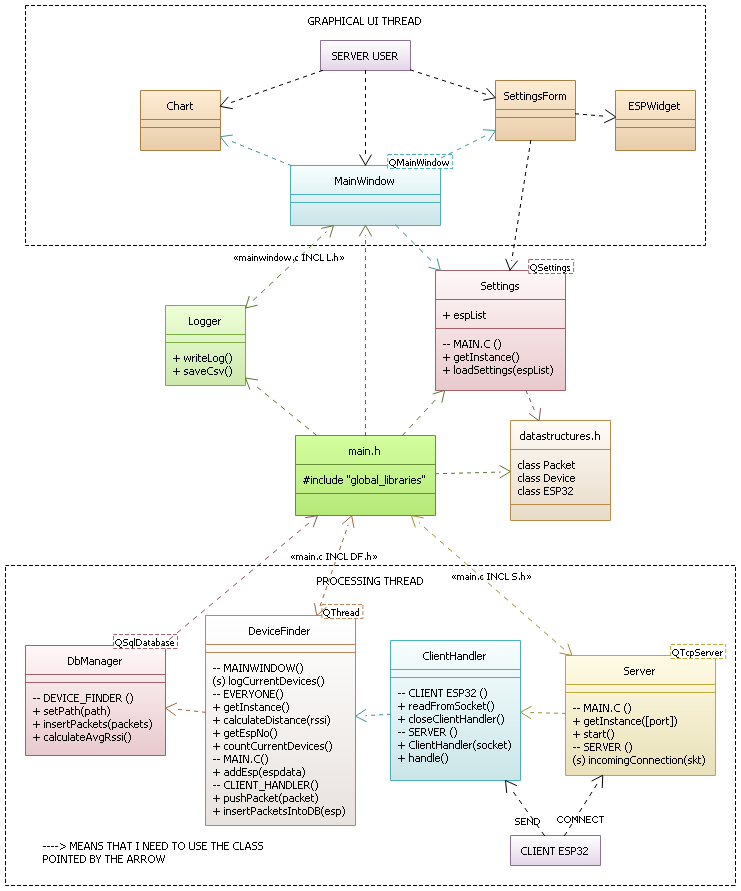
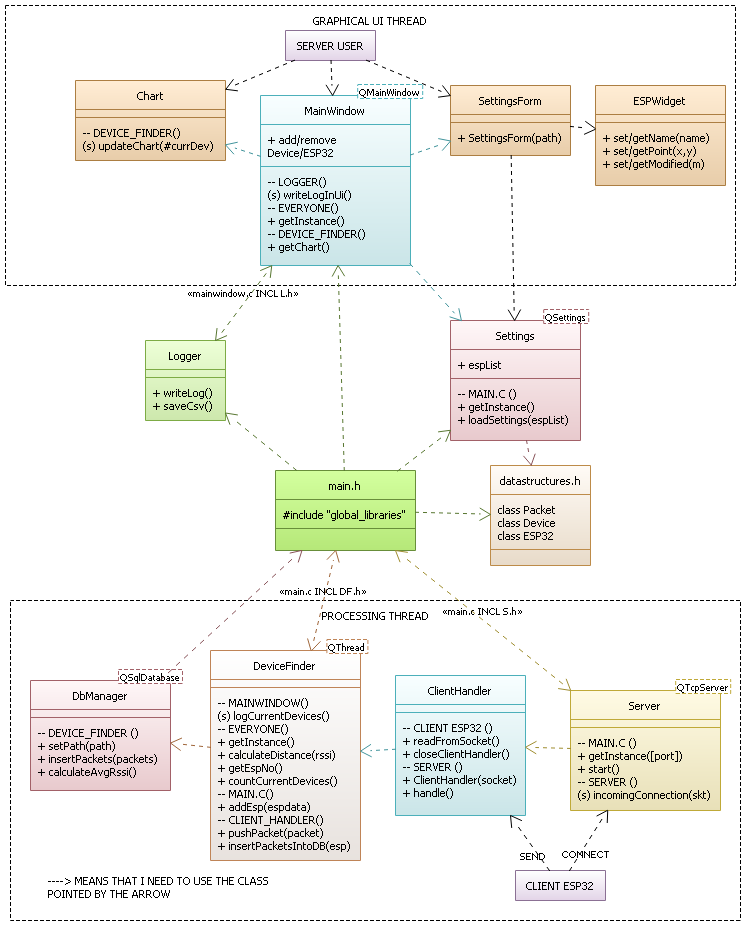
Refactoring and UML completed

diff --git a/espwidget.cpp b/espwidget.cpp
@@ -11,15 +11,15 @@
 /**
  * @brief Constructor of ESPWidget
  */
-ESPWidget::ESPWidget(QWidget *parent) :
+EspWidget::EspWidget(QWidget *parent) :
     QWidget(parent),
-    ui(new Ui::ESPWidget)
+    ui(new Ui::EspWidget)
 {
     ui->setupUi(this);
     setModified(false);
 }
 
-ESPWidget::~ESPWidget()
+EspWidget::~EspWidget()
 {
     delete ui;
 }
@@ -27,7 +27,7 @@ ESPWidget::~ESPWidget()
 /**
  * @brief Sets graphically the name of the ESP32 Device
  */
-void ESPWidget::setName(QString name)
+void EspWidget::setName(QString name)
 {
     ui->lblESPName->setText(name);
 }
@@ -35,7 +35,7 @@ void ESPWidget::setName(QString name)
 /**
  * @brief Sets graphically the position of the ESP32 Device
  */
-void ESPWidget::setPoint(double x, double y)
+void EspWidget::setPoint(double x, double y)
 {
     ui->txtX->setText(QString::number(x));
     ui->txtY->setText(QString::number(y));
@@ -45,7 +45,7 @@ void ESPWidget::setPoint(double x, double y)
  * @brief Sets if the data written has been modified
  * Sets italic font it text is modified
  */
-void ESPWidget::setModified(bool m){
+void EspWidget::setModified(bool m){
     modified = m;
     if(modified){
         ui->txtX->setStyleSheet("font: italic Arial;");
@@ -59,7 +59,7 @@ void ESPWidget::setModified(bool m){
 /**
  * @brief Get the name of the ESP32 Device
  */
-QString ESPWidget::getName()
+QString EspWidget::getName()
 {
     return ui->lblESPName->text();
 }
@@ -67,7 +67,7 @@ QString ESPWidget::getName()
 /**
  * @brief Get the x position of the ESP32 Device
  */
-float ESPWidget::getX()
+float EspWidget::getX()
 {
     return ui->txtX->text().toFloat();
 }
@@ -75,7 +75,7 @@ float ESPWidget::getX()
 /**
  * @brief Get the y position of the ESP32 Device
  */
-float ESPWidget::getY()
+float EspWidget::getY()
 {
     return ui->txtY->text().toFloat();
 }
@@ -83,7 +83,7 @@ float ESPWidget::getY()
 /**
  * @brief When x is modified, call this function
  */
-void ESPWidget::on_txtX_textEdited(const QString &dummy)
+void EspWidget::on_txtX_textEdited(const QString &dummy)
 {
      setModified(true);
 }
@@ -91,7 +91,7 @@ void ESPWidget::on_txtX_textEdited(const QString &dummy)
 /**
  * @brief When y is modified, call this function
  */
-void ESPWidget::on_txtY_textEdited(const QString &dummy)
+void EspWidget::on_txtY_textEdited(const QString &dummy)
 {
     setModified(true);
 }

diff --git a/mainwindow.cpp b/mainwindow.cpp
@@ -71,7 +71,7 @@ MainWindow::~MainWindow()
  * @param text to write
  * @param color of the text
  */
-void MainWindow::writeLog(const QString &text, const QColor& color)
+void MainWindow::writeLogInUi(const QString &text, const QColor& color)
 {
     ui->txtLog->setTextColor( color );
     ui->txtLog->append(text);
@@ -243,7 +243,7 @@ void MainWindow::on_actionDebug_triggered()
             double x,y;
             x = bx_x->value();
             y = bx_y->value();
-            writeLog("Added device at (" +
+            writeLogInUi("Added device at (" +
                      QString::number(x) + ", " +
                      QString::number(y) + ")");
             addPoint(x,y);
@@ -254,7 +254,7 @@ void MainWindow::on_actionDebug_triggered()
             double x,y;
             x = bx_x->value();
             y = bx_y->value();
-            writeLog("Removed device at (" +
+            writeLogInUi("Removed device at (" +
                  QString::number(x) + ", " +
                  QString::number(y) + ")");
             removePoint(x,y);
@@ -265,7 +265,7 @@ void MainWindow::on_actionDebug_triggered()
             double x,y;
             x = bx_x->value();
             y = bx_y->value();
-            writeLog("Added ESP Board at (" +
+            writeLogInUi("Added ESP Board at (" +
                  QString::number(x) + ", " +
                  QString::number(y) + ")");
             addBoard(x,y);
@@ -275,14 +275,14 @@ void MainWindow::on_actionDebug_triggered()
             double x,y;
             x = bx_x->value();
             y = bx_y->value();
-            writeLog("Removed ESP Board at (" +
+            writeLogInUi("Removed ESP Board at (" +
                  QString::number(x) + ", " +
                  QString::number(y) + ")");
             removeBoard(x,y);
         });
     connect(clear, &QPushButton::clicked,
         [=](){
-            writeLog("Plot cleared.");
+            writeLogInUi("Plot cleared.");
             clearData();
         });
 

diff --git a/settingsform.cpp b/settingsform.cpp
@@ -69,8 +69,8 @@ void SettingsForm::saveValues()
 
     for(int i=0; i < ESP32No; ++i){
         QString name = QString("ESP%1").arg(i);
-        double x = static_cast<double>(static_cast<ESPWidget*>(ui->listWidget->itemWidget(ui->listWidget->item(i)))->getX());
-        double y = static_cast<double>(static_cast<ESPWidget*>(ui->listWidget->itemWidget(ui->listWidget->item(i)))->getY());
+        double x = static_cast<double>(static_cast<EspWidget*>(ui->listWidget->itemWidget(ui->listWidget->item(i)))->getX());
+        double y = static_cast<double>(static_cast<EspWidget*>(ui->listWidget->itemWidget(ui->listWidget->item(i)))->getY());
 
         qs.setValue(QString(name + "/name"), name);
         qs.setValue(QString(name + "/pos_x"), QString::number(x,'f'));
@@ -90,7 +90,7 @@ void SettingsForm::saveValues()
 void SettingsForm::addESPWidget(QString name, double x, double y, bool modified)
 {
     //Creating an object of the designed widget which is to be added to the listwidget
-    ESPWidget *espWidget = new ESPWidget(this);
+    EspWidget *espWidget = new EspWidget(this);
     espWidget->setName(name);
     espWidget->setPoint(x,y);
     espWidget->setModified(modified);

diff --git a/mainwindow.h b/mainwindow.h
@@ -37,6 +37,11 @@ private:
     explicit MainWindow(QWidget *parent = nullptr);
     void initChart();
 
+    void plot();
+
+signals:
+    void logCurrDev();
+
 private slots:
     void on_actionExit_triggered();
     void on_actionAbout_triggered();
@@ -44,23 +49,21 @@ private slots:
     void on_logCurrentDevices_clicked();
     void on_actionDebug_triggered();
 
-signals:
-    void logCurrDev();
+public slots:
+    // LOGGER
+    void writeLogInUi(const QString &text, const QColor& = Qt::white);
 
 public:
-    static MainWindow* getInstance();
     ~MainWindow();
-    void writeLog(const QString &text, const QColor& = Qt::white);
+    static MainWindow* getInstance();
     Chart* getChart();
 
     // Plot management
-    void addPoint(double x, double y);
-    void removePoint(double x, double y);
-    void addBoard(double x, double y);
-    void removeBoard(double x, double y);
-    void clearData();
-    void plot();
-
+    void addDevice(double x, double y);
+    void removeDevice(double x, double y);
+    void addESP32(double x, double y);
+    void removeESP32(double x, double y);
+    void clearPlot();
 };
 
 #endif // MAINWINDOW_H

diff --git a/espwidget.h b/espwidget.h
@@ -14,21 +14,28 @@
 #include <QString>
 
 namespace Ui {
-class ESPWidget;
+class EspWidget;
 }
 
 /**
  * This is the Graphical Row containing the informations
  * about a ESP32 device
  */
-class ESPWidget : public QWidget
+class EspWidget : public QWidget
 {
     Q_OBJECT
+
 private:
+    Ui::EspWidget *ui;
     bool modified = false;
+
+private slots:
+    void on_txtX_textEdited(const QString &arg1);
+    void on_txtY_textEdited(const QString &arg1);
+
 public:
-    explicit ESPWidget(QWidget *parent = nullptr);
-    ~ESPWidget();
+    explicit EspWidget(QWidget *parent = nullptr);
+    ~EspWidget();
 
     void setName(QString name);
     void setPoint(double x, double y);
@@ -37,13 +44,6 @@ public:
     QString getName();
     float getX();
     float getY();
-
-private slots:
-    void on_txtX_textEdited(const QString &arg1);
-    void on_txtY_textEdited(const QString &arg1);
-
-private:
-    Ui::ESPWidget *ui;
 };
 
 #endif // ESPWIDGET_H

diff --git a/settingsform.h b/settingsform.h
@@ -27,21 +27,21 @@ class SettingsForm : public QDialog
 {
     Q_OBJECT
 
-public:
-    explicit SettingsForm(QString path, QWidget *parent = nullptr);
-    ~SettingsForm();
-
-private slots:
-    void on_buttonBox_clicked(QAbstractButton *button);
-    void on_btnDecreaseESP_clicked();
-    void on_btnIncreaseESP_clicked();
-
 private:
     void addESPWidget(QString name, double x, double y, bool modified = true);
     void loadValues();
     void saveValues();
     Ui::SettingsForm *ui;
     QString settingsPath;
+
+private slots:
+    void on_buttonBox_clicked(QAbstractButton *button);
+    void on_btnDecreaseESP_clicked();
+    void on_btnIncreaseESP_clicked();
+
+public:
+    explicit SettingsForm(QString path, QWidget *parent = nullptr);
+    ~SettingsForm();
 };
 
 #endif // SETTINGSFORM_H

diff --git a/chart.h b/chart.h
@@ -20,12 +20,6 @@ using namespace QtCharts;
 class Chart: public QChart
 {
     Q_OBJECT
-public:
-    Chart(QGraphicsItem *parent = nullptr, Qt::WindowFlags wFlags = nullptr);
-    virtual ~Chart();
-
-public slots:
-    void updateChart(int countCurrDev);
 
 private:
     QSplineSeries *m_series;
@@ -34,6 +28,14 @@ private:
     qreal m_step;
     QDateTime m_x;
     int m_y;
+
+public slots:
+    // DEVICE_FINDER
+    void updateChart(int countCurrDev);
+
+public:
+    Chart(QGraphicsItem *parent = nullptr, Qt::WindowFlags wFlags = nullptr);
+    virtual ~Chart();
 };
 
 #endif // CHART_H

diff --git a/logger.cpp b/logger.cpp
@@ -14,7 +14,8 @@ Logger* Logger::instance;
  */
 Logger::Logger( QObject* parent): QObject(parent){
     pWin = MainWindow::getInstance();
-    connect(this,&Logger::writeLogInMainWindow,pWin,&MainWindow::writeLog);
+    connect(this, &Logger::writeLogInMainWindow,
+            pWin, &MainWindow::writeLogInUi);
 }
 
 Logger *Logger::getInstance()
